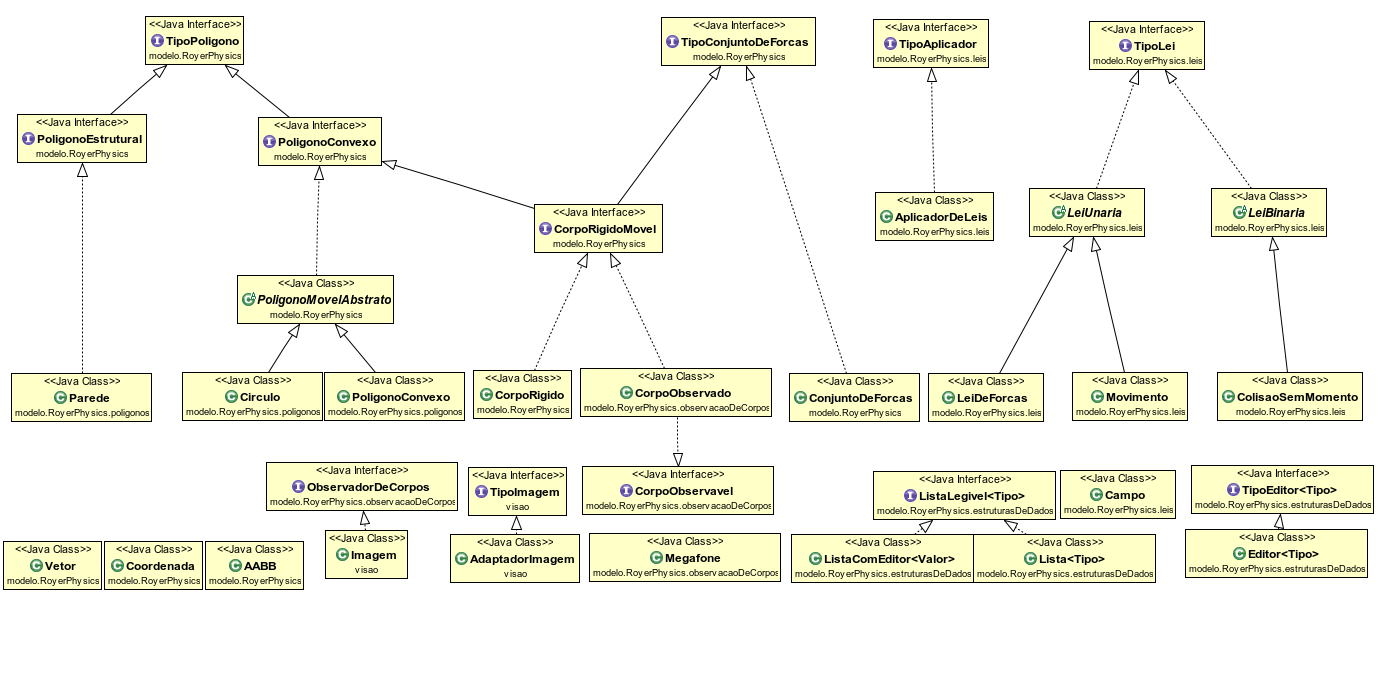
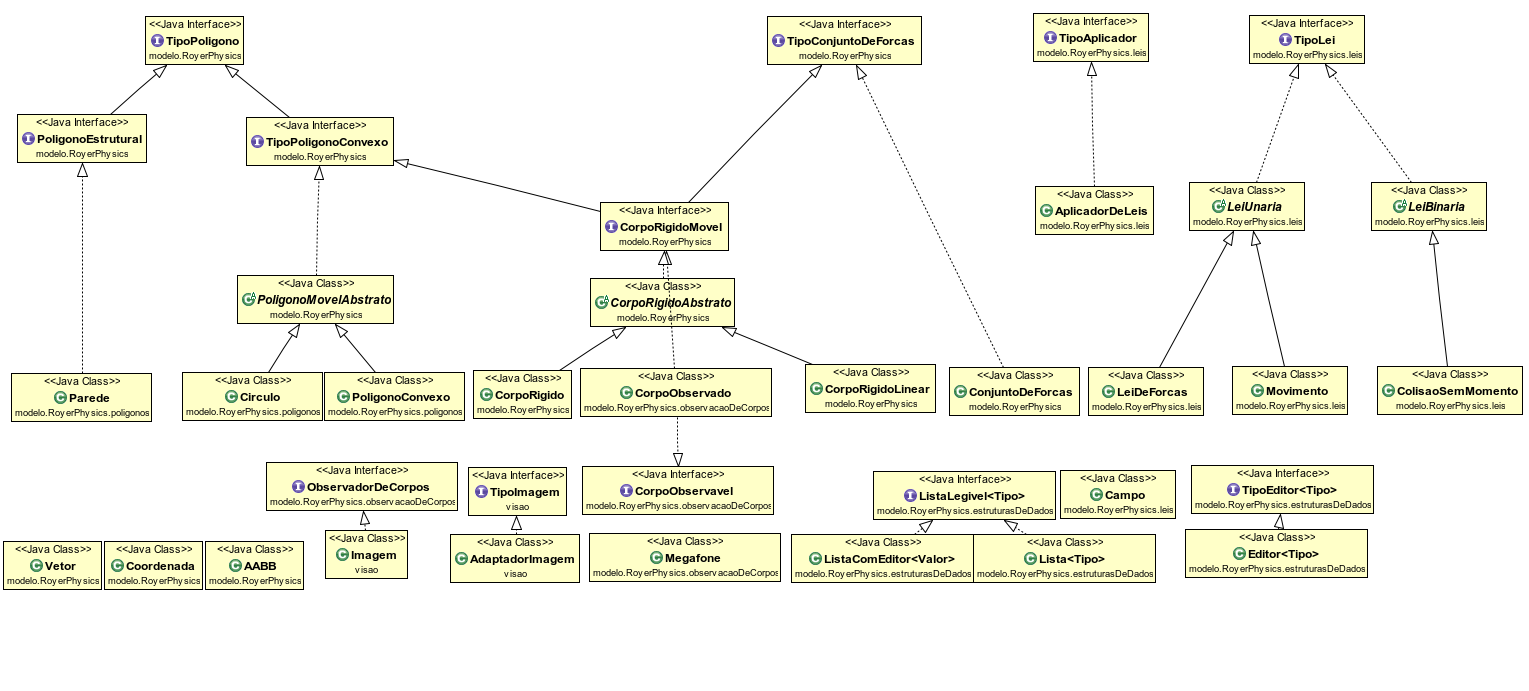
INE5404: Adicionada versão 0.4.2.

diff --git a/INE5404/src/modelo/RoyerPhysics/observacaoDeCorpos/CorpoObservado.java b/INE5404/src/modelo/RoyerPhysics/observacaoDeCorpos/CorpoObservado.java
@@ -2,29 +2,27 @@ package modelo.RoyerPhysics.observacaoDeCorpos;
 
 import modelo.RoyerPhysics.AABB;
 import modelo.RoyerPhysics.Coordenada;
-import modelo.RoyerPhysics.CorpoRigido;
 import modelo.RoyerPhysics.CorpoRigidoMovel;
 import modelo.RoyerPhysics.TipoPoligonoConvexo;
 import modelo.RoyerPhysics.Vetor;
 import modelo.RoyerPhysics.estruturasDeDados.ListaLegivel;
 import modelo.RoyerPhysics.estruturasDeDados.TipoEditor;
-import modelo.RoyerPhysics.poligonos.PoligonoConvexo;
 
 /**
  * Corpo rígido que pode ser observado por ObservadorDeCorpos. Redireciona
- * chamadas para outro CorpoRigidoMovel e informa observadores em caso de movimento.
+ * chamadas para outro CorpoRigidoMovel (semelhante ao padrão decorador)
+ * e informa observadores em caso de movimento.
  *  
  * @author Tiago Royer
  *
  */
 public class CorpoObservado implements CorpoRigidoMovel, CorpoObservavel {
-
     private CorpoRigidoMovel _corpo;
     private Megafone _megafone;
     
     /**
      * Cria um CorpoObservado, que irá redirecionar chamadas para o CorpoRigidoMovel
-     * dado.
+     * dado (semelhante ao padrão decorador).
      * @param corpo Corpo Rígido que controlará as ações deste corpo.
      */
     public CorpoObservado( CorpoRigidoMovel corpo )
@@ -33,17 +31,6 @@ public class CorpoObservado implements CorpoRigidoMovel, CorpoObservavel {
         _megafone = new Megafone();
     }
     
-    /**
-     * Cria um corpo observado, usando um corpo rígido genérico.
-     * 
-     * @param p Polígono a ser usado pelo corpo rígido.
-     */
-    public CorpoObservado( PoligonoConvexo p )
-    {
-        _corpo = new CorpoRigido( p );
-        _megafone = new Megafone();
-    }
-        
     @Override
     public ListaLegivel<Coordenada> obterPontosExtremidades() {
         return _corpo.obterPontosExtremidades();
@@ -98,6 +85,7 @@ public class CorpoObservado implements CorpoRigidoMovel, CorpoObservavel {
     public void mover(double c) {
         _corpo.mover(c);
         _megafone.gritar(_corpo.obterCentro());
+        System.out.println("Avisando: " + _corpo); //TODO: remover
     }
 
     @Override
@@ -110,4 +98,9 @@ public class CorpoObservado implements CorpoRigidoMovel, CorpoObservavel {
         return _corpo.obterCentro();
     }
 
+    @Override
+    public String toString()
+    {
+        return "Observando: " + _corpo;
+    }
 }

diff --git a/INE5404/src/modelo/fabricas/FabricaDeObjetos.java b/INE5404/src/modelo/fabricas/FabricaDeObjetos.java
@@ -2,6 +2,7 @@ package modelo.fabricas;
 
 import modelo.RoyerPhysics.Coordenada;
 import modelo.RoyerPhysics.CorpoRigido;
+import modelo.RoyerPhysics.CorpoRigidoLinear;
 import modelo.RoyerPhysics.CorpoRigidoMovel;
 import modelo.RoyerPhysics.Vetor;
 import modelo.RoyerPhysics.leis.AplicadorDeLeis;
@@ -50,7 +51,7 @@ public class FabricaDeObjetos {
      * @return Uma bola.
      */
     public CorpoRigidoMovel fabricarBola(Vetor v) {
-        Circulo c = new Circulo(new Coordenada(350, 200), 13, 40);
+        Circulo c = new Circulo(new Coordenada(350, 200), 13);
         CorpoRigido cr = new CorpoRigido(c);
         cr.fixarVetorMovimento(v);
         CorpoObservado bola = new CorpoObservado(cr);
@@ -67,7 +68,8 @@ public class FabricaDeObjetos {
         PoligonoConvexo p = new PoligonoConvexo(new Coordenada(10, 150),
                 new Coordenada(25, 175), new Coordenada(25, 225),
                 new Coordenada(10, 250));
-        CorpoObservado raquete = new CorpoObservado(p);
+        CorpoRigidoLinear cr = new CorpoRigidoLinear(p, new Vetor(0, 1));
+        CorpoObservado raquete = new CorpoObservado(cr);
         raquete.adicionarObservador(_grafica.fabricarImagemJogadorEsquerda());
         return raquete;
     }
@@ -81,7 +83,8 @@ public class FabricaDeObjetos {
         PoligonoConvexo p = new PoligonoConvexo(new Coordenada(690, 150),
                 new Coordenada(690, 250), new Coordenada(675, 225),
                 new Coordenada(675, 175));
-        CorpoObservado raquete = new CorpoObservado(p);
+        CorpoRigidoLinear cr = new CorpoRigidoLinear(p, new Vetor(0, 1));
+        CorpoObservado raquete = new CorpoObservado(cr);
         raquete.adicionarObservador(_grafica.fabricarImagemJogadorDireita());
         return raquete;
     }

diff --git a/INE5404/src/modelo/Jogo.java b/INE5404/src/modelo/Jogo.java
@@ -5,7 +5,6 @@ import modelo.RoyerPhysics.Coordenada;
 import modelo.RoyerPhysics.CorpoRigidoMovel;
 import modelo.RoyerPhysics.Vetor;
 import modelo.RoyerPhysics.leis.TipoAplicador;
-import modelo.RoyerPhysics.observacaoDeCorpos.CorpoObservado;
 import modelo.RoyerPhysics.poligonos.PoligonoConvexo;
 import modelo.fabricas.AcademiaDix;
 import modelo.fabricas.FabricaDeObjetos;
@@ -47,12 +46,11 @@ public class Jogo {
             alce.descansar(0.05);
         }
     }
-    /*
+    
     static public void main( String[] args )
     {
-        PoligonoConvexo p = new PoligonoConvexo(
-                new Coordenada(0,0), new Coordenada(10, 0), new Coordenada(0, 10));
-        System.out.println(p.obterCentro());
-        System.out.println(p.contem(new Coordenada(4, 6.5)));
-    }*/
+        Vetor v = new Vetor(0, 1);
+        Vetor u = new Vetor(5*Math.PI, Math.PI);
+        System.out.println(u.projetarSe(v));
+    }//*/
 }

diff --git a/INE5404/src/visao/Imagem.java b/INE5404/src/visao/Imagem.java
@@ -11,7 +11,6 @@ import modelo.RoyerPhysics.observacaoDeCorpos.ObservadorDeCorpos;
 public class Imagem implements ObservadorDeCorpos {
 
     private TipoImagem img;
-    
     /**
      * Cria uma imagem, com um AdaptadorImagem como alvo de redirecionamento.
      * @param tela
@@ -43,6 +42,12 @@ public class Imagem implements ObservadorDeCorpos {
     @Override
     public void notificar(Coordenada centro) {
         img.centrarSeEm(centro);
+    }
+    
+    @Override
+    public String toString()
+    {
+        return "Imagem - " + img;
     }
 
 }

diff --git a/INE5404/src/modelo/RoyerPhysics/observacaoDeCorpos/CorpoObservavel.java b/INE5404/src/modelo/RoyerPhysics/observacaoDeCorpos/CorpoObservavel.java
@@ -15,7 +15,7 @@ public interface CorpoObservavel {
      * @param o
      *            Observador a ser adicionado.
      */
-    public void adicionarObservador(ObservadorDeCorpos o);
+    public abstract void adicionarObservador(ObservadorDeCorpos o);
 
     /**
      * Remove o observador da lista.
@@ -23,5 +23,5 @@ public interface CorpoObservavel {
      * @param o
      *            Observador a ser removido.
      */
-    public void removerObservador(ObservadorDeCorpos o);
+    public abstract void removerObservador(ObservadorDeCorpos o);
 }

diff --git a/INE5404/src/modelo/RoyerPhysics/Vetor.java b/INE5404/src/modelo/RoyerPhysics/Vetor.java
@@ -99,7 +99,6 @@ public class Vetor {
      */
     public Vetor projetarSe (Vetor v)
     {
-        System.out.println(" Você ainda não implementou a projeção de vetores. ");
-        return null; //FIXME: Implementar.
+        return new Vetor((v.x*v.x*this.x + v.x*v.y*this.y)/(v.x*v.x + v.y*v.y),(v.x*v.y*this.x + v.y*v.y*this.y)/(v.x*v.x + v.y*v.y));
     }
 }

diff --git a/INE5404/src/modelo/RoyerPhysics/CorpoRigidoLinear.java b/INE5404/src/modelo/RoyerPhysics/CorpoRigidoLinear.java
@@ -52,5 +52,11 @@ public class CorpoRigidoLinear extends CorpoRigidoAbstrato {
     public void fixarVetorMovimento(Vetor v) {
         _movimento = v;
     }
+    
+    @Override
+    public String toString() {
+        return "CorpoRigido - Poligono:\n" + poligono + "\nMovimento: "
+                + _movimento + " - Orientação: " + _angulo;
+    }
 
 }

diff --git a/INE5404/src/modelo/RoyerPhysics/CorpoRigido.java b/INE5404/src/modelo/RoyerPhysics/CorpoRigido.java
@@ -54,4 +54,10 @@ public class CorpoRigido extends CorpoRigidoAbstrato {
         _movimento = v;
     }
 
+    @Override
+    public String toString() {
+        return "CorpoRigido - Poligono:\n" + poligono + "\nMovimento: "
+                + _movimento;
+    }
+
 }

diff --git a/INE5404/src/modelo/RoyerPhysics/CorpoRigidoAbstrato.java b/INE5404/src/modelo/RoyerPhysics/CorpoRigidoAbstrato.java
@@ -94,5 +94,4 @@ public abstract class CorpoRigidoAbstrato implements CorpoRigidoMovel {
     public Coordenada obterCentro() {
         return poligono.obterCentro();
     }
-
 }
